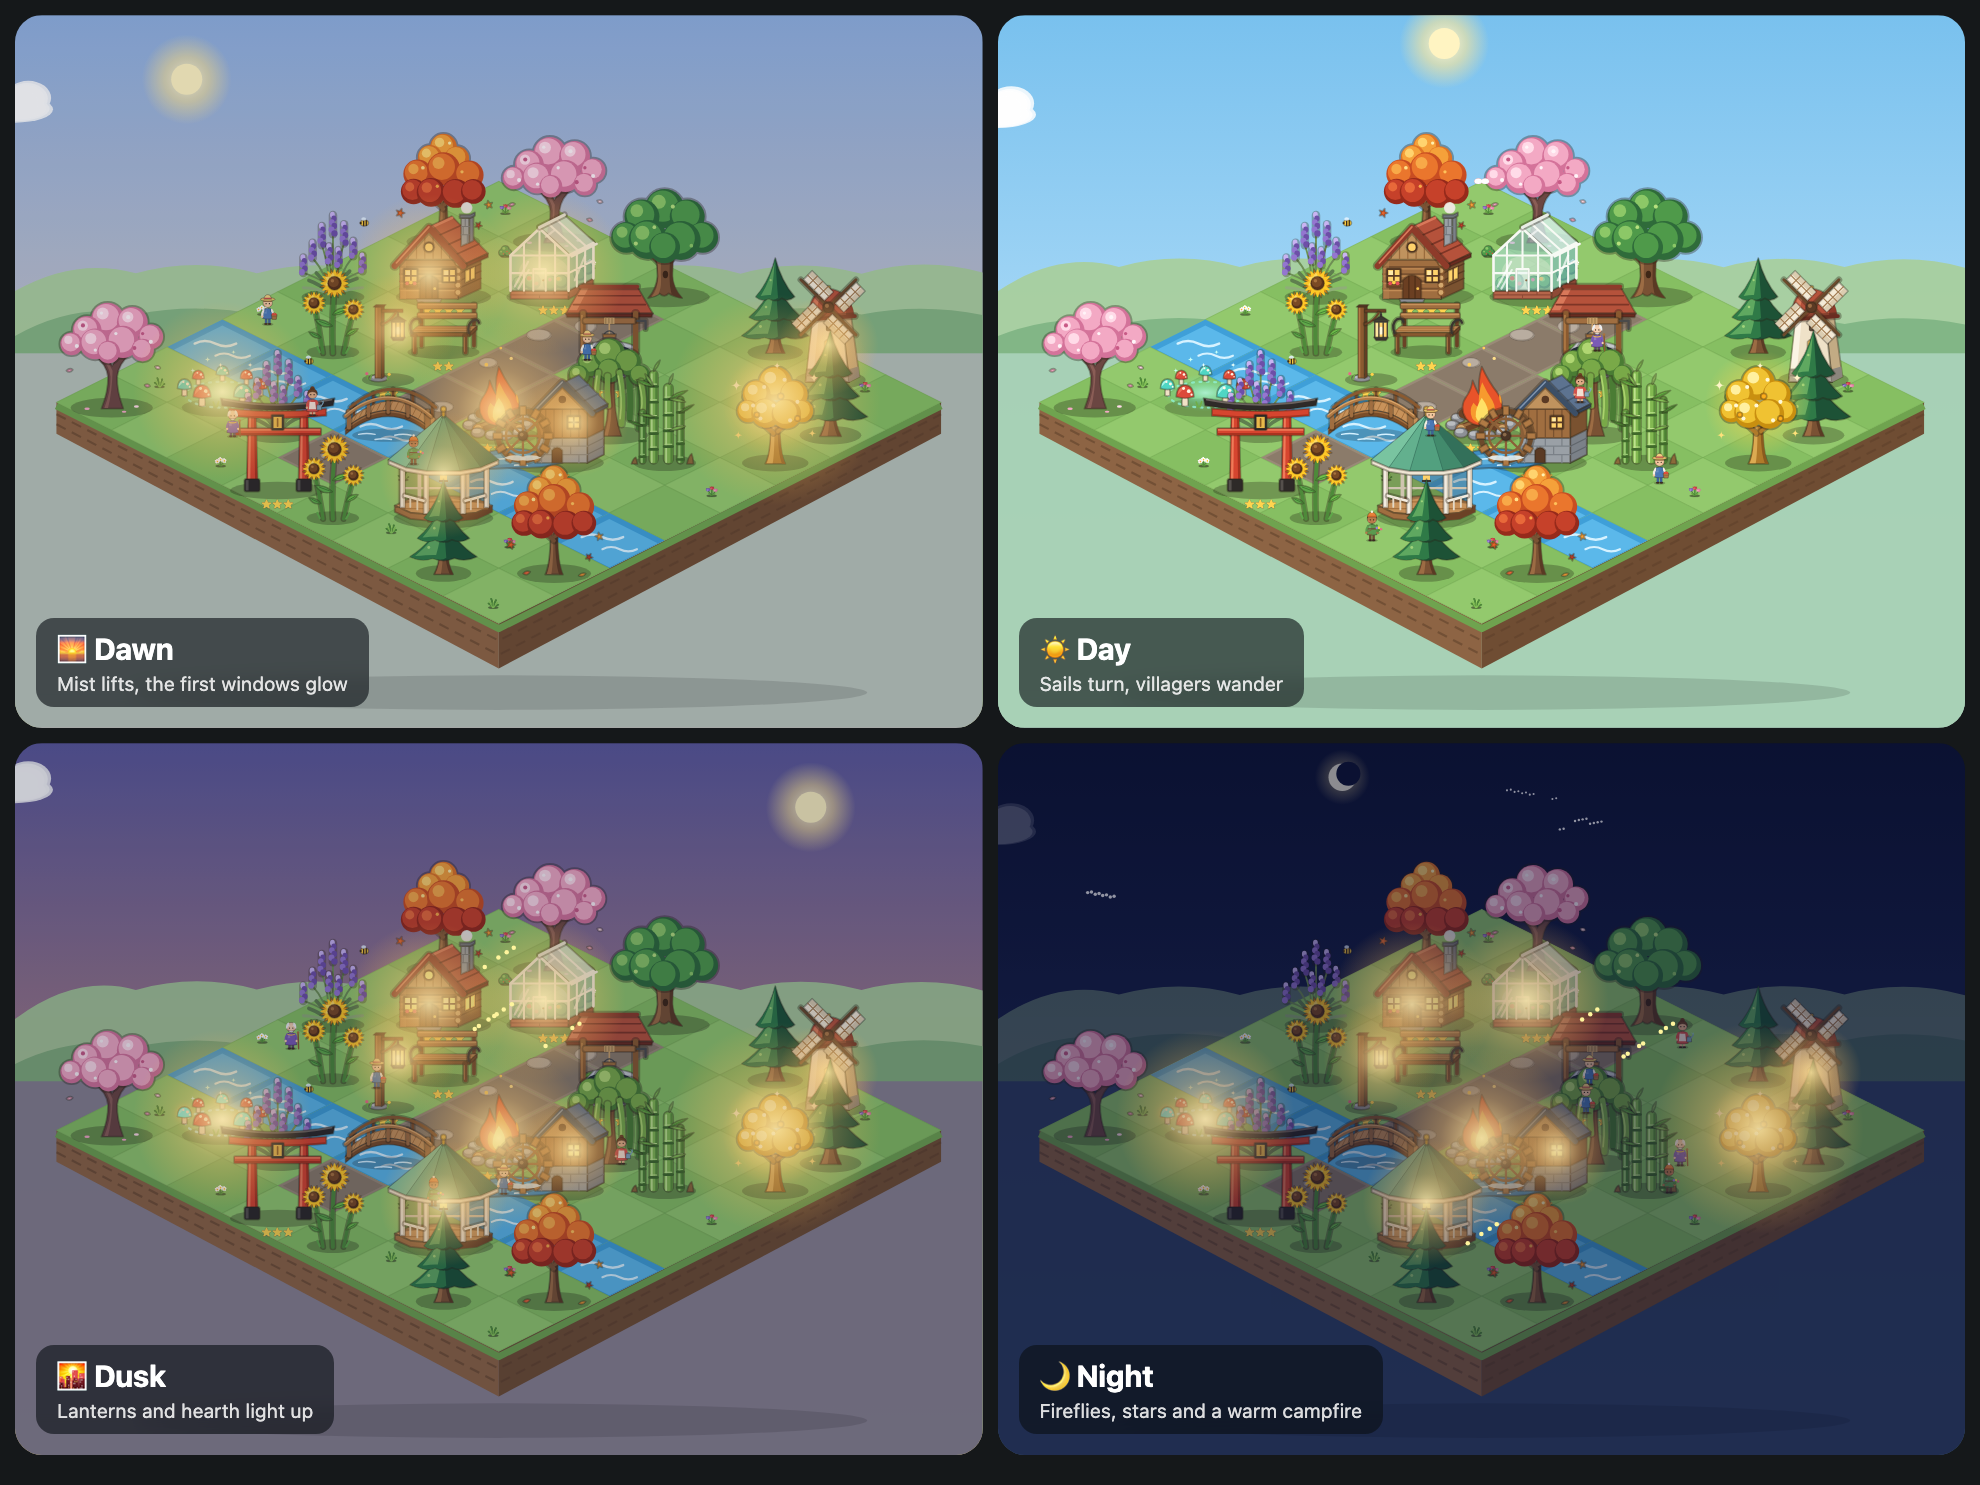
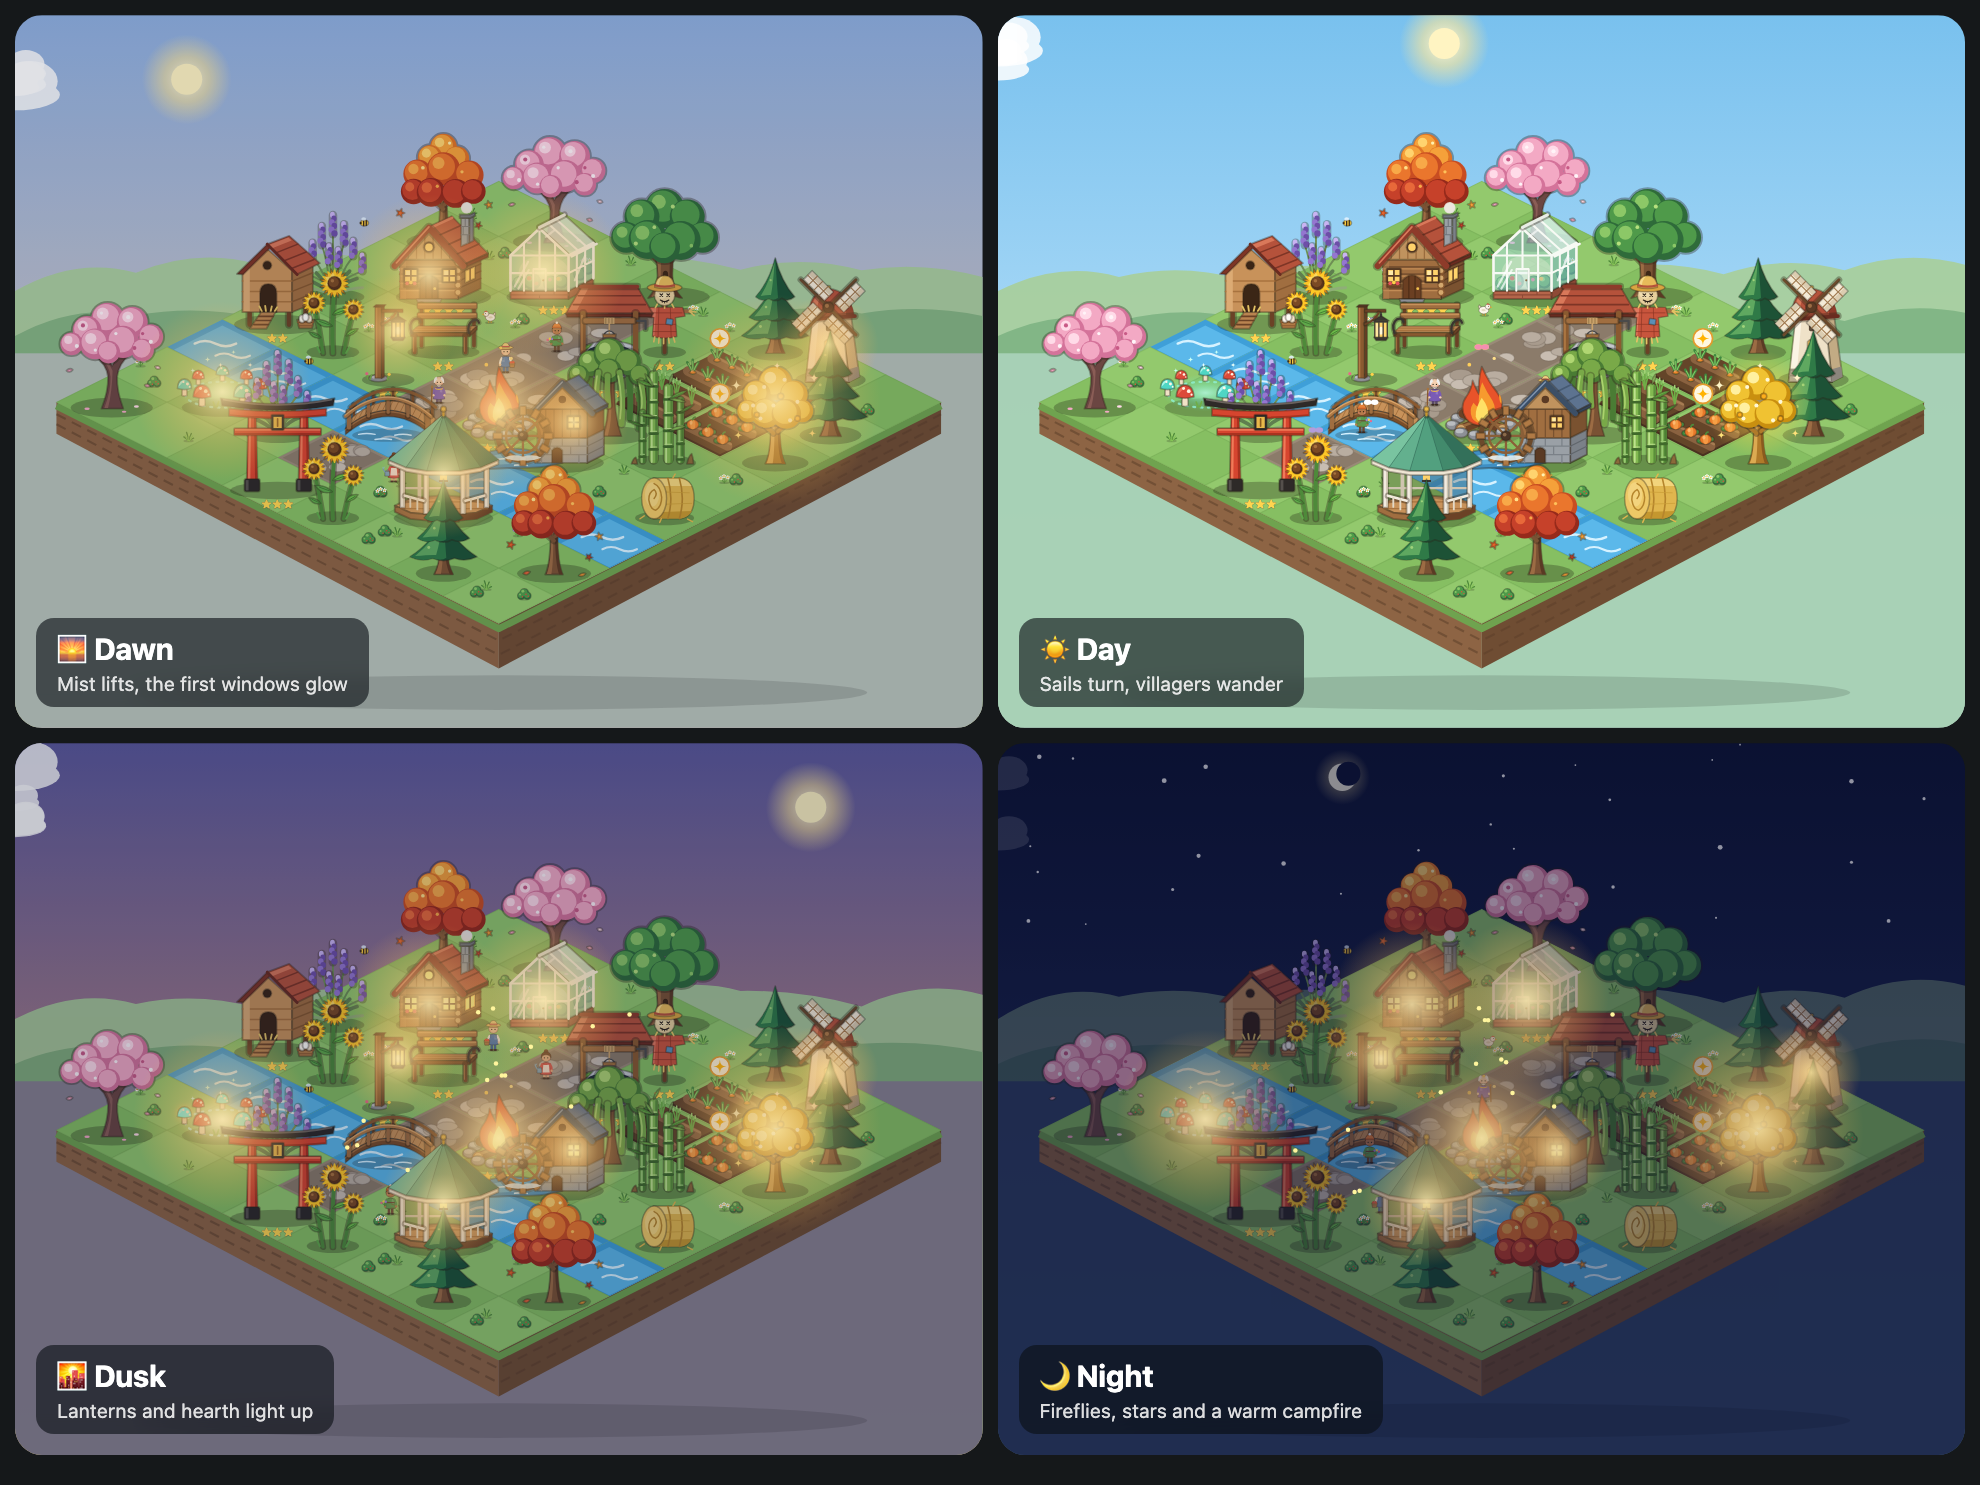
docs: document farming and the new villagers, refresh screenshots
- README: garden plots, crops, scarecrow and chicken coop; villagers who
  stroll the paths and talk; 20 achievements; the HTML snapshot's
  scenery is animated while its villagers stand still.
- Guide: new "Garden plots and crops" (with the crop table) and
  "Villagers and hens" sections, crop rewards, the new buildings and
  their unlock levels.
- Spec: crop growth and harvest rules, the four new buildings and the
  crop catalogue, and how VillageLife walks and depth-sorts actors.
- Screenshots regenerated with the plugin's own renderer; the sample
  village now has a kitchen garden, a scarecrow, a coop and hens.

diff --git a/docs/GUIDE.md b/docs/GUIDE.md
@@ -9,6 +9,8 @@ A short guide to how the game layer of **Pomodoro Timer Forest** works. For the 
 - [Rewards](#rewards)
 - [Levels and unlocks](#levels-and-unlocks)
 - [Building your village](#building-your-village)
+  - [Garden plots and crops](#garden-plots-and-crops)
+  - [Villagers and hens](#villagers-and-hens)
 - [Daily quests and achievements](#daily-quests-and-achievements)
 - [Streaks, vitality and withering](#streaks-vitality-and-withering)
 - [Smart seeds (tags)](#smart-seeds-tags)
@@ -72,6 +74,7 @@ Unchecking the task takes the offer back. Switching to another task does the sam
 | Reaching your daily goal | +40 | +5 | +20 |
 | Ticking a task `[ ]` → `[x]` | | +3 (+2 if it was a 🍅 task, or the timer's task mid-session) | +5 |
 | Finishing a break | Tea Gazebo perk | | +3 |
+| Harvesting a [crop](#garden-plots-and-crops) | | 2–15, by crop | 3–18, by crop |
 | Each daily quest | 20–35 | 3–4 | 15–25 |
 | Daily chest (all three quests) | +60 | +10 | +40, plus a sapling |
 
@@ -86,8 +89,8 @@ Everything you do earns XP. Levels unlock species, buildings, biomes and more la
 | Level | Unlocks (examples) |
 |---|---|
 | 1 | Classic Pine, Sunflower, Campfire, Cobblestone Path, Lantern, Bench |
-| 2–4 | Oak, Lavender, Maple, Well, Brook, Footbridge, Tea Gazebo, Sakura Grove biome, 6×6 land |
-| 5–8 | Cherry Blossom, Willow, Bamboo, Cabin, Torii Gate, Watermill, Autumn Valley and Alpine Frost biomes |
+| 2–4 | Oak, Lavender, Maple, Well, Brook, Footbridge, Tea Gazebo, Garden Plot, Hay Bale, Scarecrow, Chicken Coop, tomatoes, Sakura Grove biome, 6×6 land |
+| 5–8 | Cherry Blossom, Willow, Bamboo, Cabin, Torii Gate, Watermill, wheat and pumpkins, Autumn Valley and Alpine Frost biomes |
 | 9–14 | Bonsai, Fairy Ring, Celestial Gold Tree, Conservatory, Windmill, Twilight Sanctuary biome, 8×8 land |
 
 The full table lives in the [spec](../FOREST_SPEC.md#3-flora-catalog).
@@ -110,16 +113,44 @@ The full table lives in the [spec](../FOREST_SPEC.md#3-flora-catalog).
 | Glass Conservatory | + % XP from everything |
 | River Watermill | Streak shields for days you rest |
 | Hearth Campfire | The village fades more slowly on days off |
+| Friendly Scarecrow | Crops grow + % faster |
+| Chicken Coop | + Coins with your first tree of the day (fresh eggs) |
 
 - **Paths, brooks and bridges** shape the ground. Put a footbridge on a brook tile.
 - **Biomes** change the ground, foliage and hills. **Land** grows from 5×5 up to 8×8.
 - The sky follows your computer's clock: dawn, day, dusk and night, with lights and fireflies after dark.
 
+### Garden plots and crops
+
+A **Garden Plot** (market, level 2, up to six) is a tile of tilled soil with a crop on it. Crops grow with your **focus minutes**, not with the clock:
+
+- Every minute of a focus session (or an early harvest) grows every plot by a minute. A **Friendly Scarecrow** makes that faster.
+- Every task you tick off **waters** the garden: each crop grows 5 more minutes.
+- A ripe crop shows a gold marker. Click the plot, or **🧺 Harvest** above the village, to pick it. The plot is sown again right away.
+- Crops **never wilt**. A ripe crop waits for you as long as it takes, and a plot left alone just pauses.
+
+| Crop | Level | Focus minutes | Harvest |
+|---|---|---|---|
+| 🥕 Carrots | 1 | 50 | 2 Coins, 3 XP |
+| 🍅 Tomatoes | 3 | 100 | 5 Coins, 6 XP |
+| 🌾 Golden Wheat | 5 | 150 | 8 Coins, 10 XP |
+| 🎃 Pumpkins | 8 | 250 | 15 Coins, 18 XP |
+
+Select a plot to choose its crop. Switching crops keeps the minutes already grown, and stowing a plot picks a ripe crop first. Planting and harvesting both count for the *Tend your village* quest.
+
+### Villagers and hens
+
+Villagers come out as your village gets livelier and gains buildings. They walk around what you build, keep to paths and bridges where they can, stop by the well, the bench or a ripe garden plot, and gather at the campfire after dark. A **Chicken Coop** adds hens that potter around it.
+
+Click a villager and they'll tell you how today is going. They cheer when you finish a tree, a quest or a level.
+
+With *Low animation frame rate* on, or when your system asks for reduced motion, everyone stands still instead.
+
 ## Daily quests and achievements
 
 Each morning the *Journey* tab shows **three quests**, picked by date. They are things like *Focus for 75 minutes*, *Check off 3 tasks*, *Take a proper break*, *Focus on a specific task* or *Tend your village*. Finish all three to open the **daily chest**.
 
-There are **18 achievements** (first tree, streaks, focus hours, tasks, breaks, full plot, and more), each with a reward and a progress bar.
+There are **20 achievements** (first tree, streaks, focus hours, tasks, breaks, harvests, full plot, and more), each with a reward and a progress bar.
 
 ## Streaks, vitality and withering
 
@@ -182,7 +213,7 @@ An early harvest logs the same line with `[status:: early]` and the minutes actu
 
 In the *Journey* tab:
 
-- **Download village snapshot (.html):** a single self-contained page with your animated village, stats and recent trees. Open it in any browser or share it.
+- **Download village snapshot (.html):** a single self-contained page with your village, stats and recent trees. The scenery is animated; villagers stand still in a snapshot. Open it in any browser or share it.
 - **Copy dashboard JSON** (also available as the command *Copy forest data as JSON (for a web dashboard)*): a structured summary (levels, streak, village layout, the last 30 days) for building your own dashboard. The schema is in the [spec](../FOREST_SPEC.md#7-web-dashboard-export-schema).
 
 ## Your data

diff --git a/README.md b/README.md
@@ -40,6 +40,8 @@ Start a session and a seed is planted inside the timer. As the minutes pass it s
 
 Every finished tree becomes a sapling you can plant. Spend what you earn on buildings that give **real perks**: a Cozy Cabin for more Sunlight, a Village Well for more Coins, a Watermill that protects your streak while you rest. Lay paths, dig a brook, put a bridge over it, and expand your island from 5×5 up to 8×8.
 
+Add **garden plots** and your focus grows carrots, tomatoes, wheat and pumpkins too: every focused minute grows them, every ticked task waters them, and a crop never wilts while you're away. A scarecrow speeds them up, and a chicken coop brings hens and fresh eggs for your first tree of the day.
+
 <p align="center">
   <img src="docs/images/homestead-full.png" alt="The full-page Homestead Village view with an upgradeable Cozy Cabin selected" width="90%">
 </p>
@@ -48,7 +50,7 @@ Open it as a full-page tab, or keep a compact version in the sidebar under the t
 
 ## A village that lives on your clock
 
-The sky follows your real time of day. Windows glow at dusk, fireflies come out at night, sails turn, chimneys smoke and villagers wander between the trees. When you've been away the village gets a little sleepier, and one session wakes it back up.
+The sky follows your real time of day. Windows glow at dusk, fireflies come out at night, sails turn, chimneys smoke and villagers stroll the paths, stop by the well and gather at the campfire after dark. Click one and they'll tell you how your day is going. When you've been away the village gets a little sleepier, and one session wakes it back up.
 
 <p align="center">
   <img src="docs/images/day-cycle.png" alt="The same village at dawn, day, dusk and night" width="90%">
@@ -73,7 +75,7 @@ Unlock new species as you level up: from a humble Classic Pine to a glowing Cele
     <td align="center" valign="top" width="25%"><img src="docs/images/panel-sidebar.png" alt="Timer with a growing cherry blossom and the village below"><br><sub><b>Focus &amp; village</b><br>A growing plant inside the timer, your goal for the day, and the village right beneath it.</sub></td>
     <td align="center" valign="top" width="25%"><img src="docs/images/panel-reward.png" alt="Reward card after a finished session"><br><sub><b>Harvest</b><br>Every bonus is itemised, so you see exactly what you earned.</sub></td>
     <td align="center" valign="top" width="25%"><img src="docs/images/panel-market.png" alt="Market with buildings, prices and perks"><br><sub><b>Market</b><br>Buildings with perks that grow when you upgrade them.</sub></td>
-    <td align="center" valign="top" width="25%"><img src="docs/images/panel-journey.png" alt="Daily quests, achievements and lifetime stats" ><br><sub><b>Journey</b><br>Daily quests, a chest, 18 achievements and your lifetime stats.</sub></td>
+    <td align="center" valign="top" width="25%"><img src="docs/images/panel-journey.png" alt="Daily quests, achievements and lifetime stats" ><br><sub><b>Journey</b><br>Daily quests, a chest, 20 achievements and your lifetime stats.</sub></td>
   </tr>
 </table>
 
@@ -98,7 +100,7 @@ Unlock new species as you level up: from a humble Classic Pine to a glowing Cele
 
 ## Share your village
 
-One click exports a **self-contained, animated HTML snapshot** of your village that opens in any browser, or a JSON summary for building your own dashboard.
+One click exports a **self-contained HTML snapshot** of your village, with its animated scenery, that opens in any browser, or a JSON summary for building your own dashboard.
 
 ## Quick start
 
